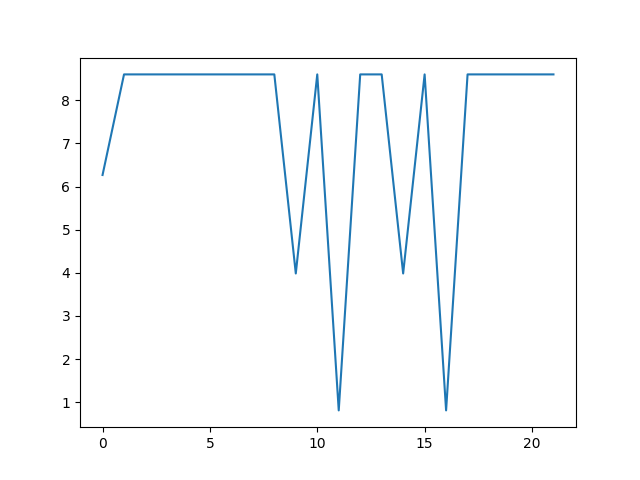
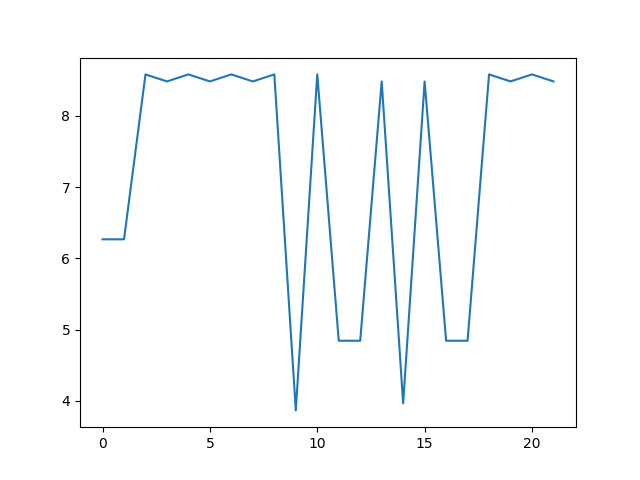
changes

diff --git a/PythonCode/Ngram/main.py b/PythonCode/Ngram/main.py
@@ -145,7 +145,7 @@ def main():
     correlation = correlation_information(n_gram_counts, probability_matrix, probability_matrix_minus1)
     print(correlation)
 
-    local_info_patterns(sentences, unique_words, txt5, 1)
+    local_info_patterns(sentences, unique_words, txt5, 2)
 
 
 main()
